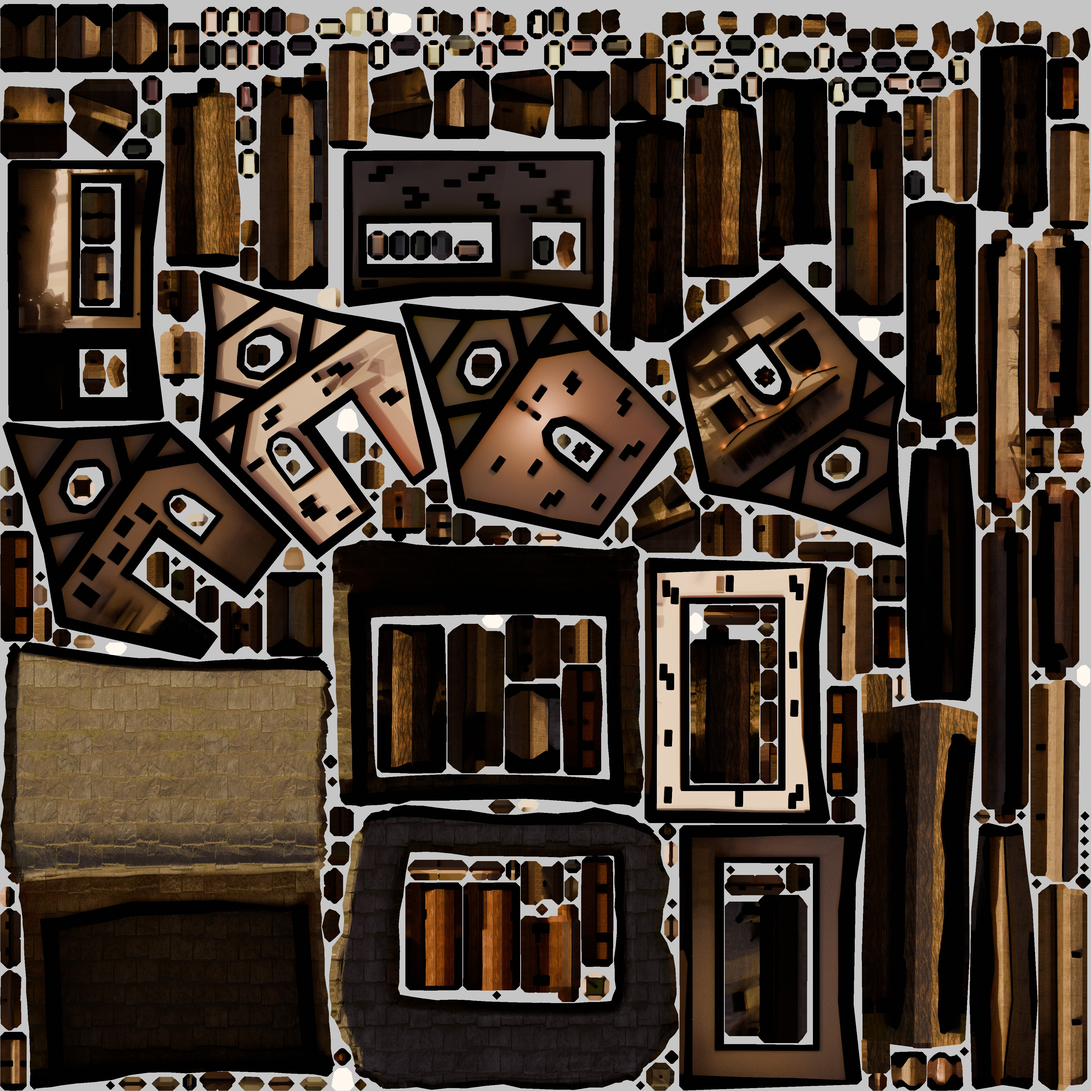
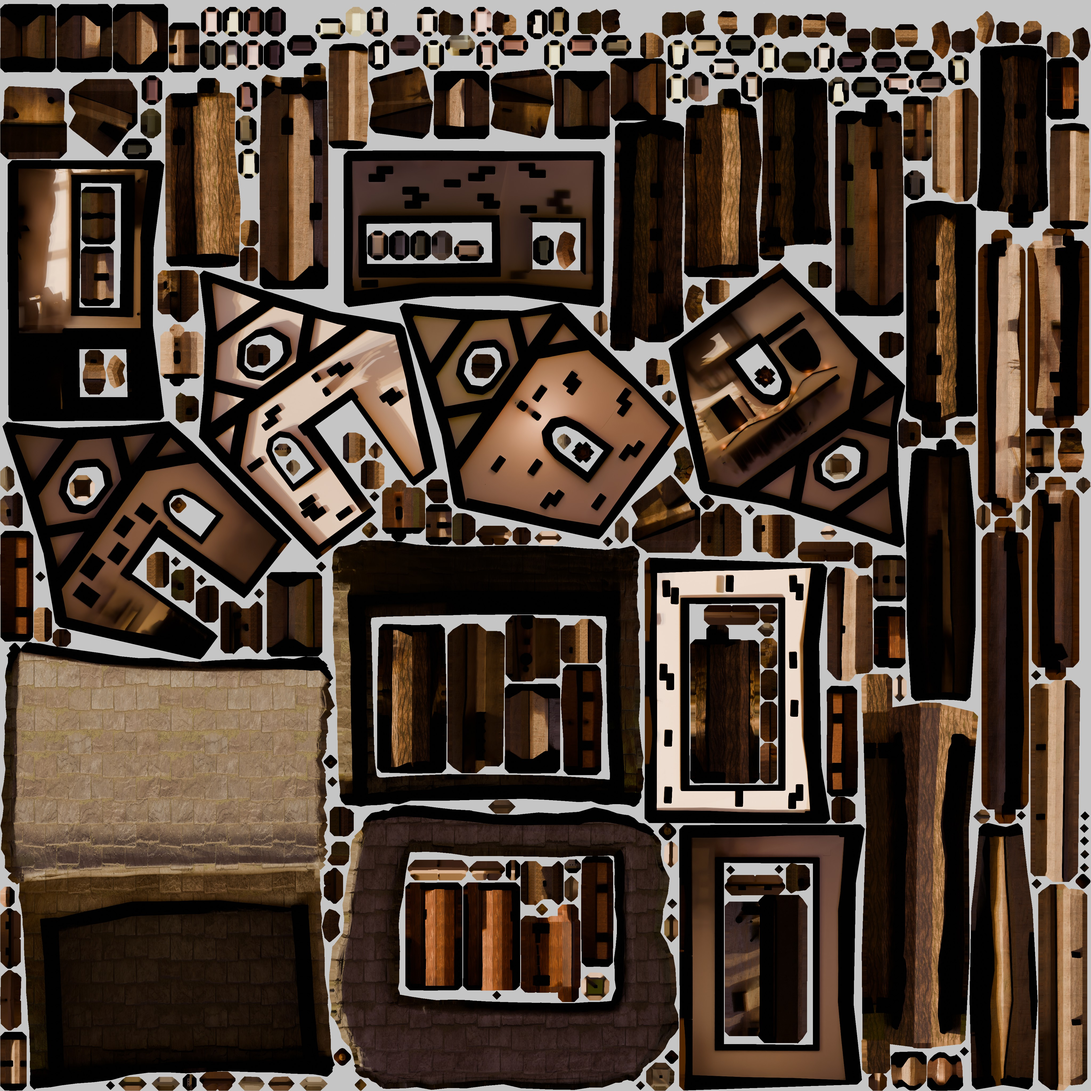
🎨 Sunrise textures > too overexposed

diff --git a/src/Experience/World/Terrain.js b/src/Experience/World/Terrain.js
@@ -29,6 +29,10 @@ export default class Terrain {
         this.texture.mountain = this.resources.items.mountainTextureDaylight
         this.texture.mountain.flipY = false
         this.texture.mountain.colorSpace = THREE.SRGBColorSpace
+
+        this.texture.base = this.resources.items.baseTextureDaylight
+        this.texture.base.flipY = false
+        this.texture.base.colorSpace = THREE.SRGBColorSpace
     }
 
     setMaterials() {
@@ -41,25 +45,29 @@ export default class Terrain {
         this.material.mountain = new THREE.MeshBasicMaterial({
             map: this.texture.mountain,
         })
+
+        this.material.base = new THREE.MeshBasicMaterial({
+            map: this.texture.base,
+        })
     }
 
     setModel() {
-        this.land = this.resources.items.landModel.scene
-        this.land.scale.set(0.1, 0.1, 0.1)
-        this.land.position.set(0, -2, 0)
+        this.terrain = this.resources.items.terrainModel.scene
+        this.terrain.scale.set(0.1, 0.1, 0.1)
+        this.terrain.position.set(0, -2, 0)
+        this.scene.add(this.terrain)
 
-        this.land.traverse((child) => {
-            child.material = this.material.land
-        })
-        this.scene.add(this.land)
+        this.land = this.terrain.children.find((child) => child.name == 'Land')
+        this.land.material = this.material.land
 
-        this.mountain = this.resources.items.mountainModel.scene
-        this.mountain.scale.set(0.1, 0.1, 0.1)
-        this.mountain.position.set(0, -2, 0)
+        this.mountain = this.terrain.children.find(
+            (child) => child.name == 'Mountain'
+        )
+        this.mountain.material = this.material.mountain
 
-        this.mountain.traverse((child) => {
-            child.material = this.material.mountain
-        })
-        this.scene.add(this.mountain)
+        this.base = this.terrain.children.find(
+            (child) => child.name == 'LandBase'
+        )
+        this.base.material = this.material.base
     }
 }

diff --git a/src/Experience/sources.js b/src/Experience/sources.js
@@ -47,9 +47,9 @@ export default [
 
     // Terrain
     {
-        name: 'landModel',
+        name: 'terrainModel',
         type: 'gltfModel',
-        path: 'models/Terrain/Land.glb',
+        path: 'models/Terrain/Terrain.glb',
     },
     {
         name: 'landTextureDaylight',
@@ -57,9 +57,9 @@ export default [
         path: 'models/Terrain/Land-sunrise.jpg',
     },
     {
-        name: 'mountainModel',
-        type: 'gltfModel',
-        path: 'models/Terrain/Mountain.glb',
+        name: 'baseTextureDaylight',
+        type: 'texture',
+        path: 'models/Terrain/Base-sunrise.jpg',
     },
     {
         name: 'mountainTextureDaylight',

diff --git a/src/Experience/World/Cottage.js b/src/Experience/World/Cottage.js
@@ -59,13 +59,13 @@ export default class Cottage {
         this.leftSide = this.model.children.find(
             (child) => child.name === 'CottageLeftMerged'
         )
-        this.leftSide.visible = false
+        // this.leftSide.visible = false
 
         // Hide Front Side
         this.frontSide = this.model.children.find(
             (child) => child.name === 'CottageFrontMerged'
         )
-        this.frontSide.visible = false
+        // this.frontSide.visible = false
 
         // Set Custom Materials
         this.setEmissionMaterial()
